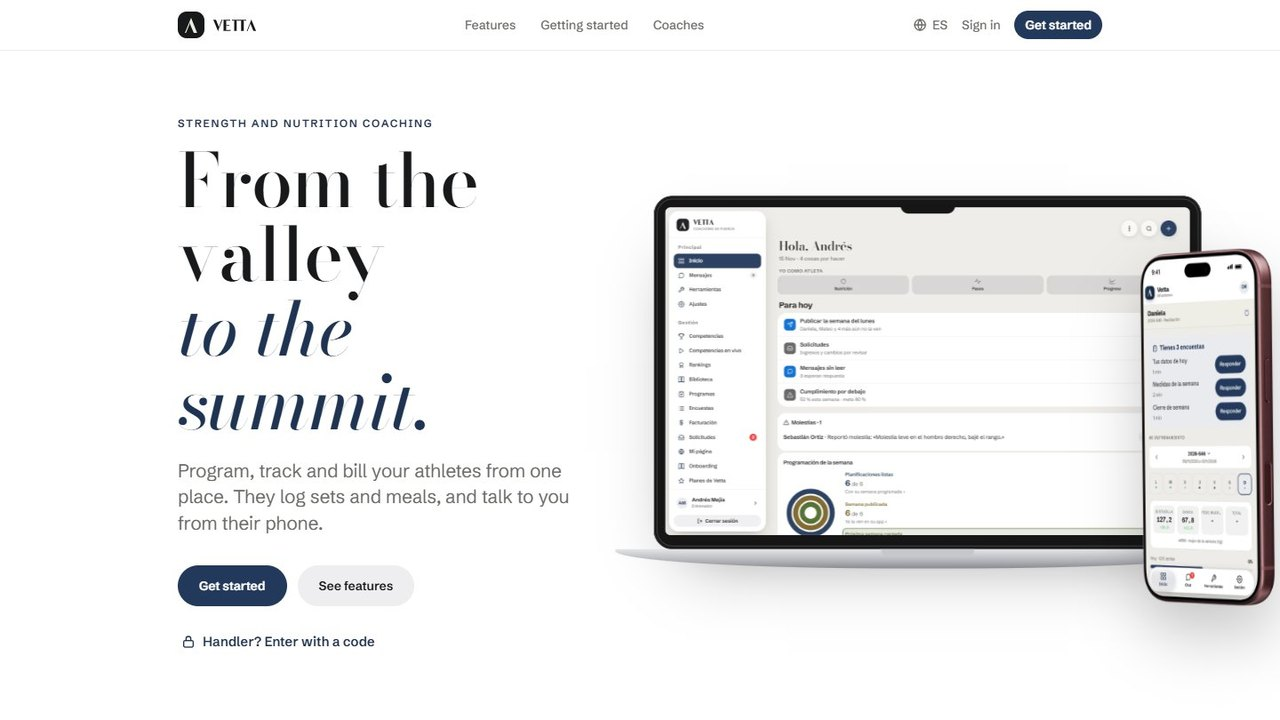
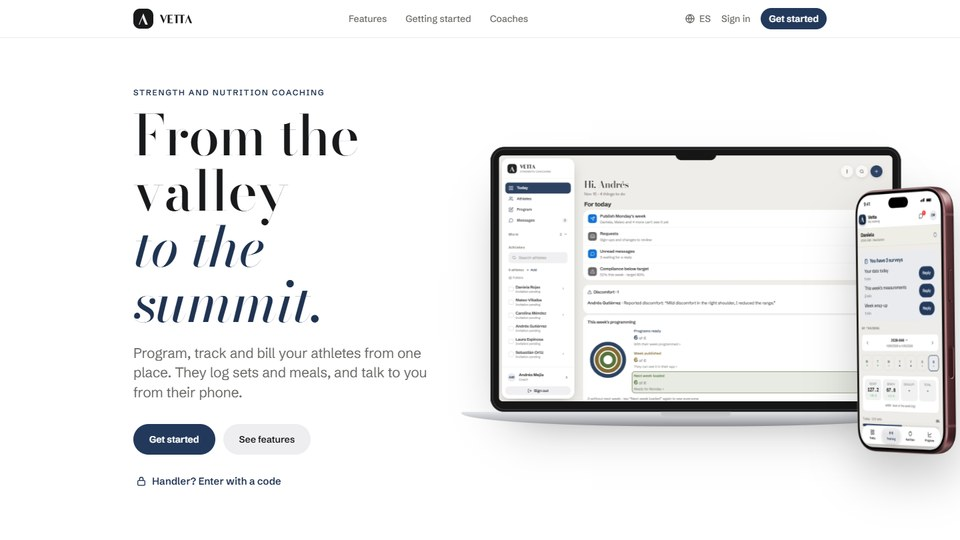
Show only the latest project with a smaller, updated screenshot

diff --git a/README-ES.md b/README-ES.md
@@ -23,11 +23,7 @@ ecosistema&nbsp;de&nbsp;código&nbsp;abierto.&nbsp;&nbsp;&nbsp;&nbsp;&nbsp;&nbsp
 <b><a href="https://eyversgo.github.io/vetta">TRABAJO&nbsp;02:&nbsp;VETTA</a>&nbsp;&nbsp;&nbsp;&nbsp;&nbsp;&nbsp;&nbsp;&nbsp;&nbsp;&nbsp;&nbsp;&nbsp;&nbsp;&nbsp;&nbsp;&nbsp;&nbsp;&nbsp;&nbsp;(APP&nbsp;DE&nbsp;COACHING&nbsp;DE&nbsp;FUERZA,&nbsp;PRIVADO)</b>
 </samp></p>
 
-<p align="center"><a href="https://eyversgo.github.io/apple-rebuilt"><img src="assets/apple-rebuilt.jpg" alt="Apple Rebuilt" width="720"></a></p>
-
-<p align="center"><sub><samp><a href="https://eyversgo.github.io/apple-rebuilt"><b>VER LA DEMO</b></a>&nbsp;&nbsp;&nbsp;&nbsp;&nbsp;&nbsp;<a href="https://eyversgo.github.io/contact"><b>PEDIR ACCESO</b></a>&nbsp;&nbsp;&nbsp;&nbsp;&nbsp;&nbsp;<a href="https://eyversgo.github.io/"><b>PORTAFOLIO</b></a></samp></sub></p>
-
-<p align="center"><a href="https://eyversgo.github.io/vetta"><img src="assets/vetta.jpg" alt="Vetta" width="720"></a></p>
+<p align="center"><a href="https://eyversgo.github.io/vetta"><img src="assets/vetta.jpg" alt="Vetta" width="480"></a></p>
 
 <p align="center"><sub><samp><a href="https://eyversgo.github.io/vetta"><b>VER LA DEMO</b></a>&nbsp;&nbsp;&nbsp;&nbsp;&nbsp;&nbsp;<a href="https://vettapp.web.app"><b>ABRIR LA APP</b></a>&nbsp;&nbsp;&nbsp;&nbsp;&nbsp;&nbsp;<a href="https://eyversgo.github.io/contact"><b>PEDIR ACCESO</b></a></samp></sub></p>
 

diff --git a/README.md b/README.md
@@ -24,11 +24,7 @@ ecosystem.&nbsp;&nbsp;&nbsp;&nbsp;&nbsp;&nbsp;&nbsp;&nbsp;&nbsp;&nbsp;&nbsp;&nbs
 <b><a href="https://eyversgo.github.io/vetta">WORK&nbsp;02:&nbsp;VETTA</a>&nbsp;&nbsp;&nbsp;&nbsp;&nbsp;&nbsp;&nbsp;&nbsp;&nbsp;&nbsp;&nbsp;&nbsp;&nbsp;&nbsp;&nbsp;(STRENGTH&nbsp;COACHING&nbsp;APP,&nbsp;PRIVATE&nbsp;REPOSITORY)</b>
 </samp></p>
 
-<p align="center"><a href="https://eyversgo.github.io/apple-rebuilt"><img src="assets/apple-rebuilt.jpg" alt="Apple Rebuilt" width="720"></a></p>
-
-<p align="center"><sub><samp><a href="https://eyversgo.github.io/apple-rebuilt"><b>WATCH THE DEMO</b></a>&nbsp;&nbsp;&nbsp;&nbsp;&nbsp;&nbsp;<a href="https://eyversgo.github.io/contact"><b>REQUEST ACCESS</b></a>&nbsp;&nbsp;&nbsp;&nbsp;&nbsp;&nbsp;<a href="https://eyversgo.github.io/"><b>PORTFOLIO</b></a></samp></sub></p>
-
-<p align="center"><a href="https://eyversgo.github.io/vetta"><img src="assets/vetta.jpg" alt="Vetta" width="720"></a></p>
+<p align="center"><a href="https://eyversgo.github.io/vetta"><img src="assets/vetta.jpg" alt="Vetta" width="480"></a></p>
 
 <p align="center"><sub><samp><a href="https://eyversgo.github.io/vetta"><b>WATCH THE DEMO</b></a>&nbsp;&nbsp;&nbsp;&nbsp;&nbsp;&nbsp;<a href="https://vettapp.web.app"><b>OPEN THE APP</b></a>&nbsp;&nbsp;&nbsp;&nbsp;&nbsp;&nbsp;<a href="https://eyversgo.github.io/contact"><b>REQUEST ACCESS</b></a></samp></sub></p>
 
